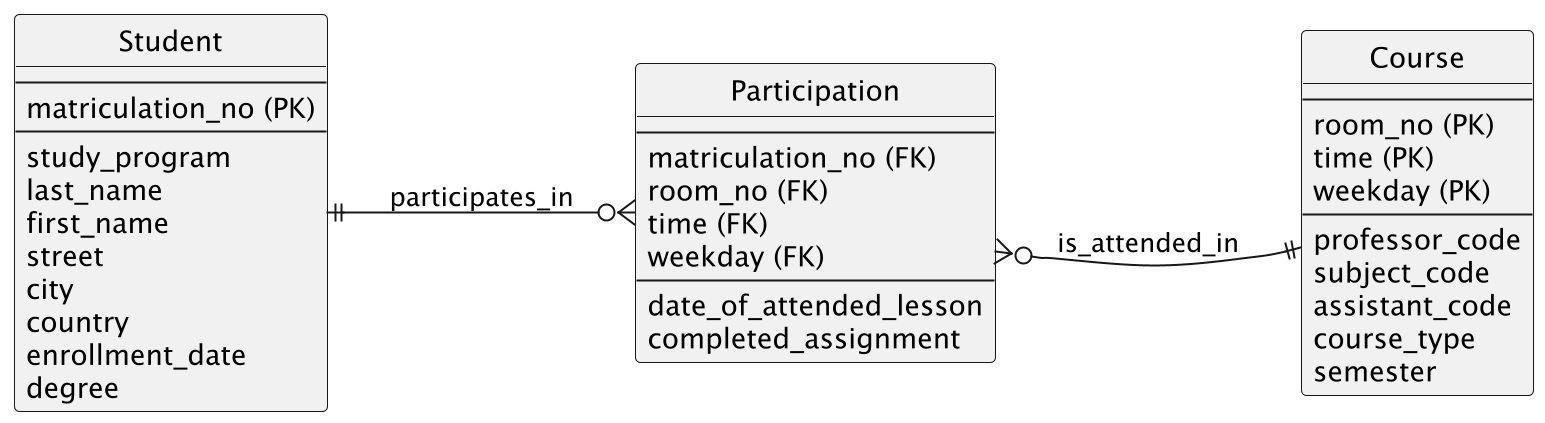
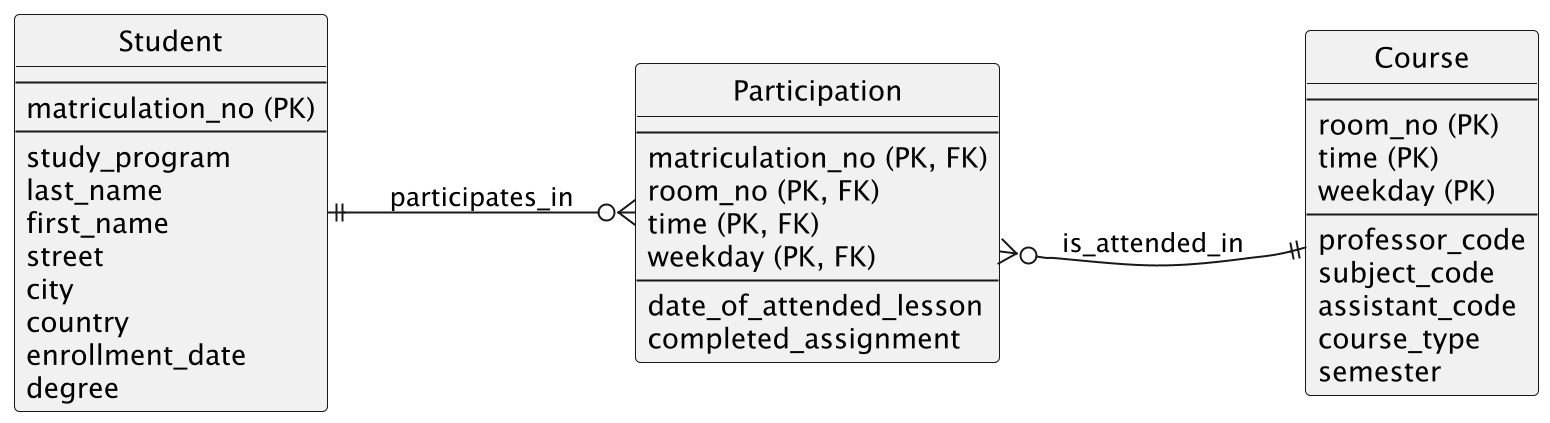
docs(plantuml-er): mark columns that are both PK and FK as (PK, FK)
The join table in the example now has a declared composite primary key.

diff --git a/skills/diagrammer/specs/plantuml/plantuml_er.md b/skills/diagrammer/specs/plantuml/plantuml_er.md
@@ -38,6 +38,8 @@ We reuse **PlantUML class syntax** but follow these conventions:
   - Use a line with `--` as a **visual separator**.
   - List **primary keys (PK)** between the first pair of `--`.
   - List **foreign keys (FK)** and other keys between the same or a second pair of `--`.
+  - A column that is **both primary and foreign key** is marked `(PK, FK)` and belongs to the
+    primary key block. Typical case: the key columns of a join table.
   - List remaining **non-key attributes** below the last separator.
 - Do **not** specify datatypes or methods.
 - Use relationships with multiplicities using the normal class diagram arrows.
@@ -64,6 +66,7 @@ class EntityName {
 
 - `PRIMARY_KEY (PK)` marks a primary key column.  
 - `... (FK)` marks a foreign key column.  
+- `... (PK, FK)` marks a column that is part of the primary key and also a foreign key.  
 - Additional attributes are listed without any type annotations.
 
 ---
@@ -121,10 +124,10 @@ class Student {
 ' === Participation (Join Table) ===
 class Participation {
     --
-    matriculation_no (FK)
-    room_no (FK)
-    time (FK)
-    weekday (FK)
+    matriculation_no (PK, FK)
+    room_no (PK, FK)
+    time (PK, FK)
+    weekday (PK, FK)
     --
     date_of_attended_lesson
     completed_assignment
@@ -166,8 +169,9 @@ Participation -[hidden]-> Course
   - Contains metadata such as `professor_code`, `subject_code`, `assistant_code`, `course_type`, and `semester`.
 
 - **Participation**  
-  - Its key block contains only **foreign keys** linking a student to a specific course slot:  
-    `(matriculation_no, room_no, time, weekday)`. No column is marked `(PK)`.  
+  - Composite primary key `(matriculation_no, room_no, time, weekday)`. Every key column is
+    also a **foreign key**, linking a student to a specific course slot, so all four are marked
+    `(PK, FK)`.  
   - Includes descriptive attributes like `date_of_attended_lesson` and `completed_assignment`.  
   - Represents the **n:m relationship** between `Student` and `Course`.
 
